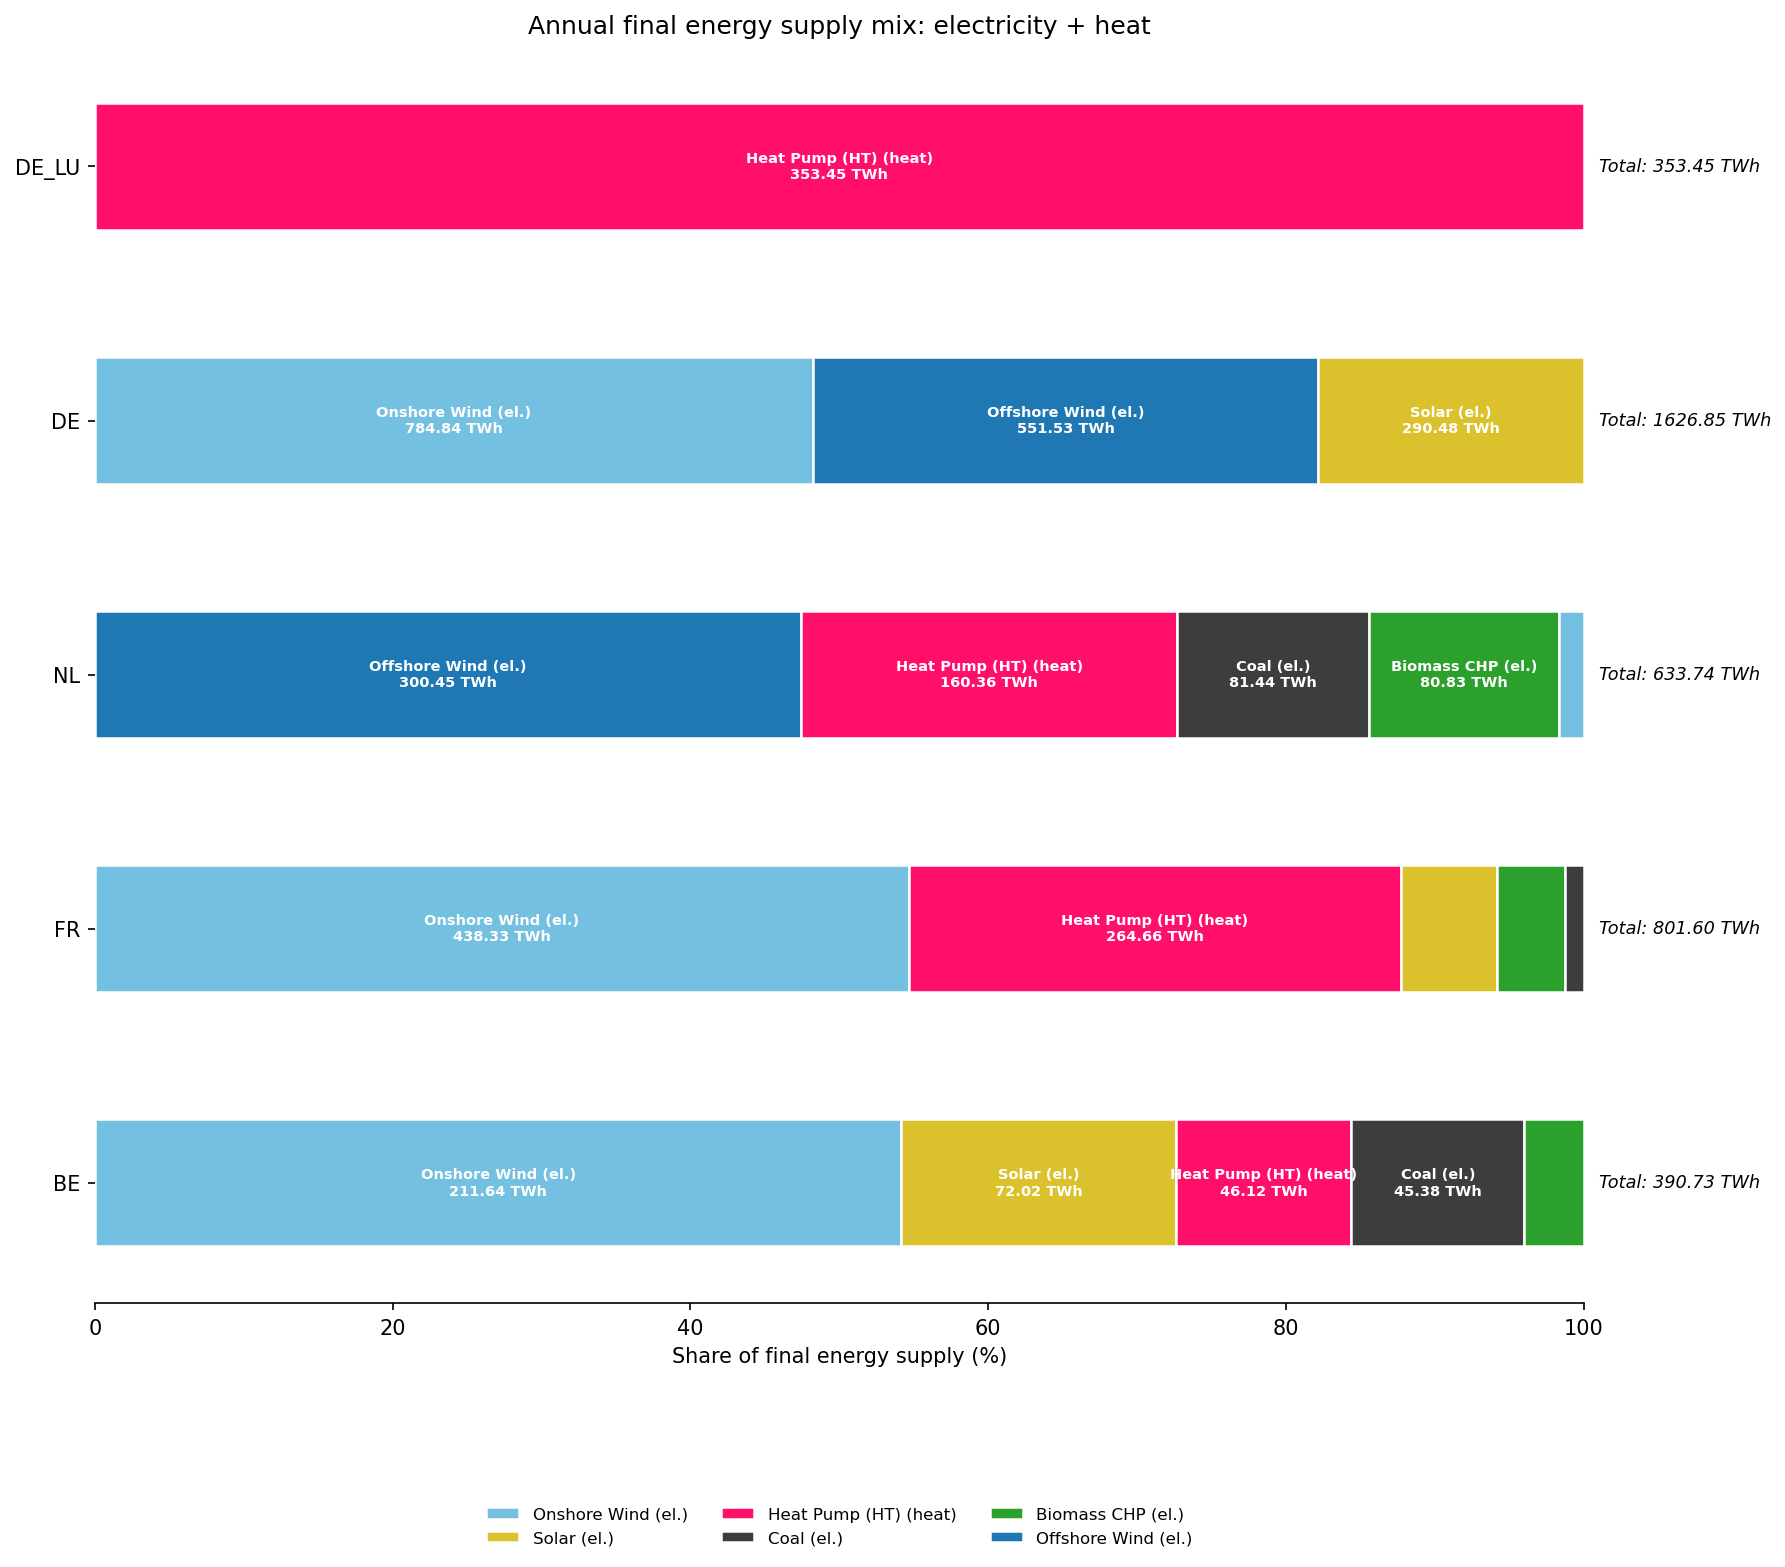
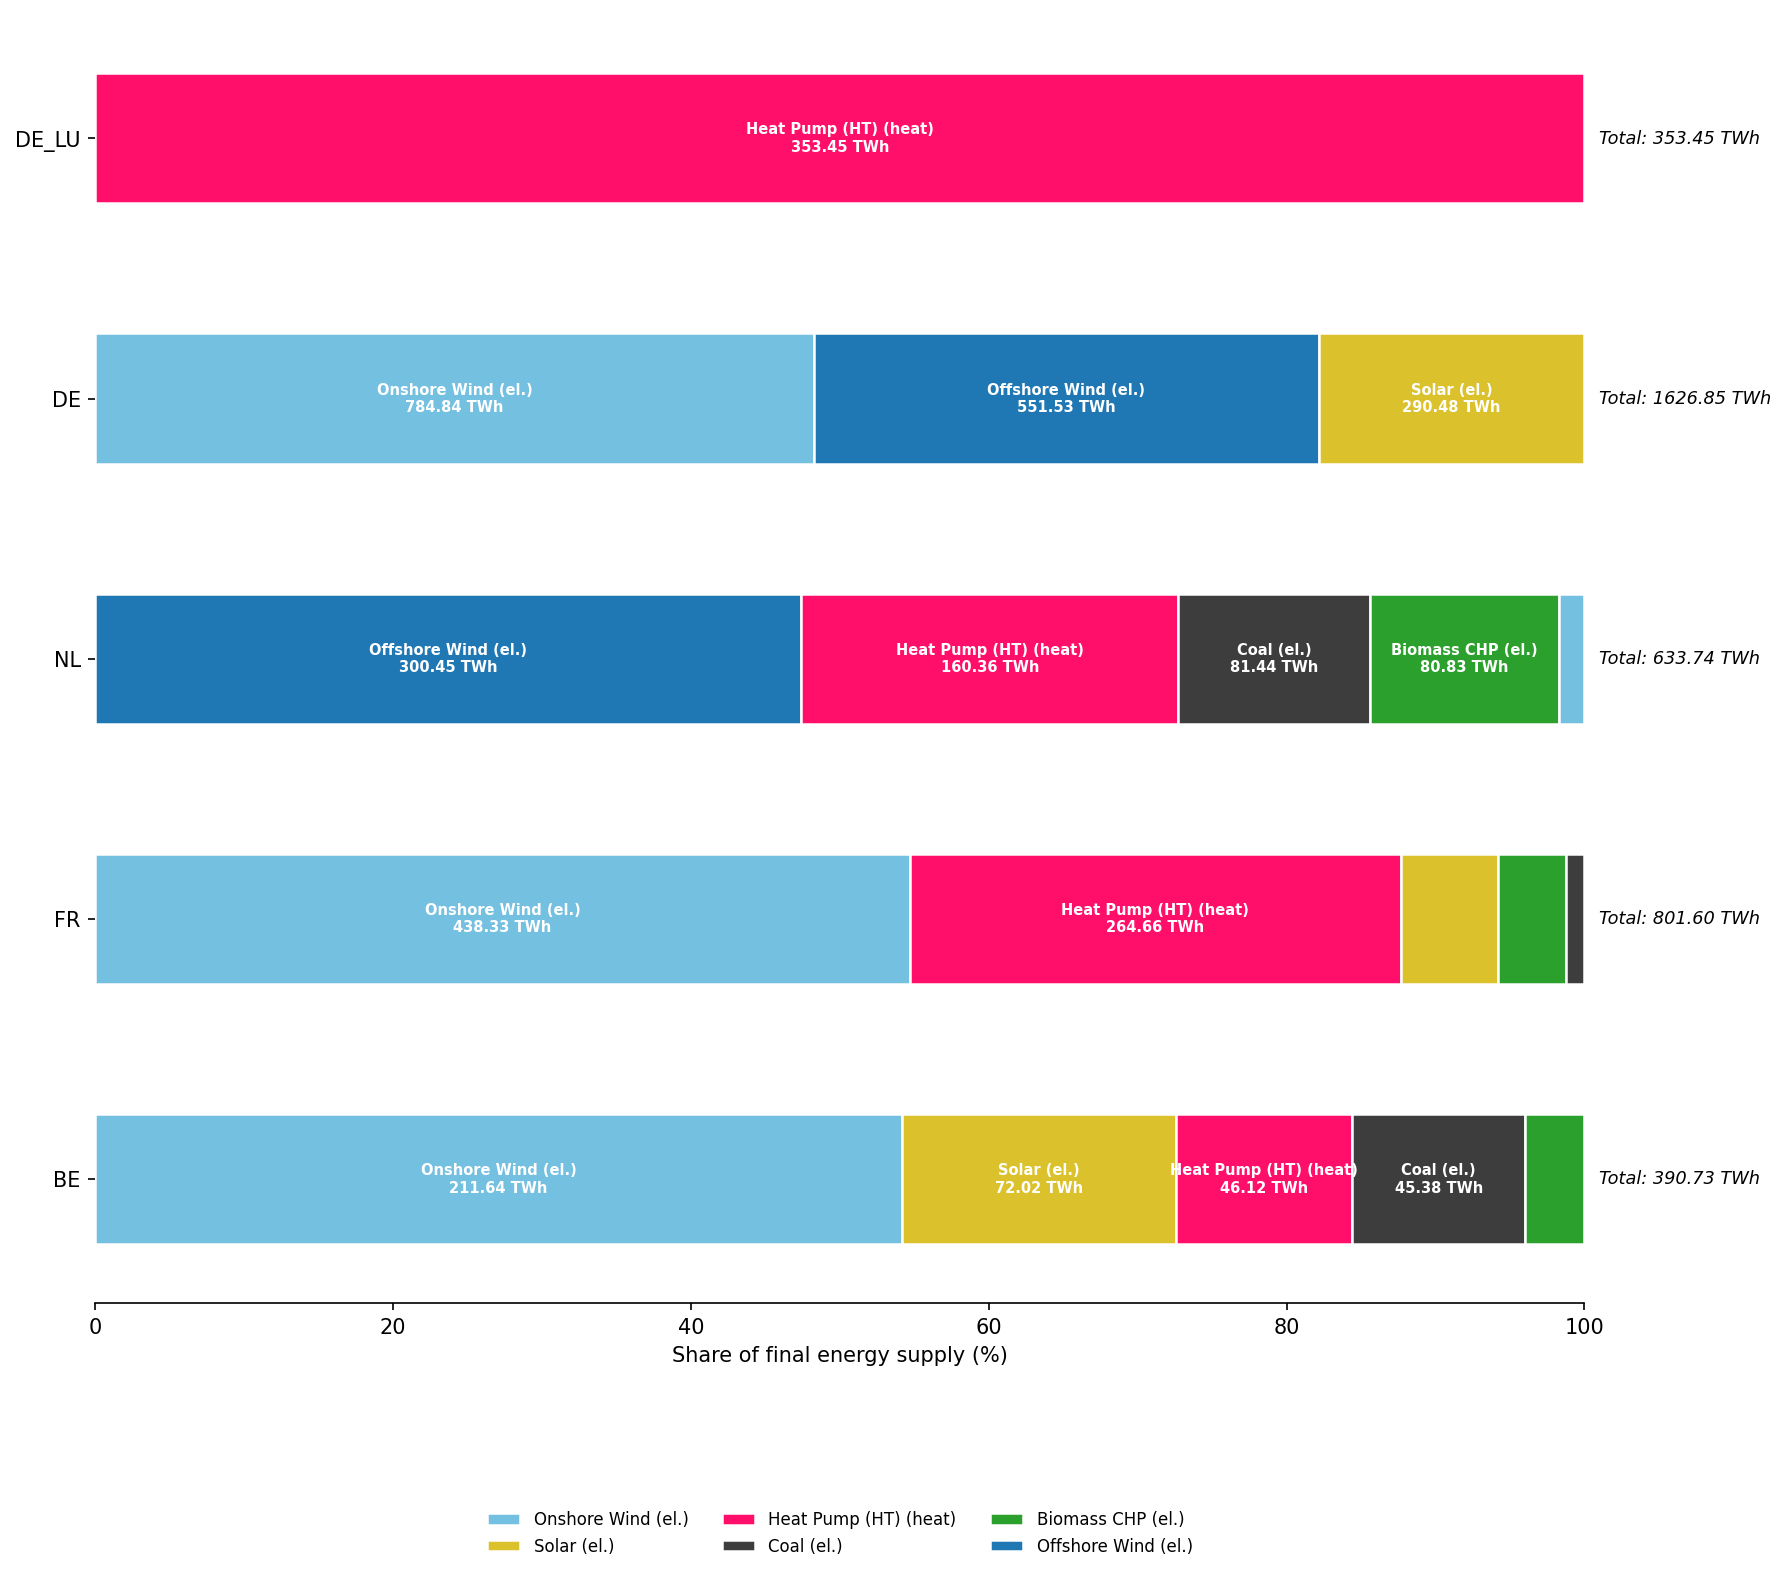
Deleted titles in some plots

diff --git a/src/visualizer.py b/src/visualizer.py
@@ -1385,7 +1385,7 @@ class Visualizer:
         )
 
         ax.set_ylabel("Transported energy [TWh]")
-        ax.set_title("Energy transport comparison")
+        # ax.set_title("Energy transport comparison")
         ax.spines[["top", "right"]].set_visible(False)
         ax.grid(axis="y", linestyle="--", alpha=0.4)
 
@@ -1530,7 +1530,7 @@ class Visualizer:
         ax.set_yticks([i * bar_spacing for i in range(len(countries))])
         ax.set_yticklabels(countries)
         ax.set_xlabel("Share of final energy supply (%)")
-        ax.set_title("Annual final energy supply mix: electricity + heat")
+        # ax.set_title("Annual final energy supply mix: electricity + heat")
         ax.spines[["top", "right", "left"]].set_visible(False)
 
         ax.legend(
@@ -1582,7 +1582,7 @@ class Visualizer:
         ax.set_xticks(x)
         ax.set_xticklabels(countries)
         ax.set_ylabel("Annual demand [TWh]")
-        ax.set_title("Annual final energy demand split")
+        # ax.set_title("Annual final energy demand split")
         ax.spines[["top", "right"]].set_visible(False)
         ax.grid(axis="y", linestyle="--", alpha=0.4)
         ax.legend()

diff --git a/main.py b/main.py
@@ -201,16 +201,16 @@ CONFIG_J["no_gas_supply"] = True # removes CH4 availability; gas-based technolog
 
 # export_results_to_json(network_g.network, "task_g", CONFIG_G["years"][0])
 
-# TASK H
-input_data_h = InputHandler(CONFIG_H)
-network_h = NetworkBuilder(CONFIG_H, input_data_h, CONFIG_H["years"][0])
+# # TASK H
+# input_data_h = InputHandler(CONFIG_H)
+# network_h = NetworkBuilder(CONFIG_H, input_data_h, CONFIG_H["years"][0])
 
-# CO2 shadow price
-co2_shadow_price = abs(network_h.network.model.constraints["CO2Limit"].dual.item())
-print(f"CO2 shadow price for task H: {co2_shadow_price:.2f} €/tCO2")
+# # CO2 shadow price
+# co2_shadow_price = abs(network_h.network.model.constraints["CO2Limit"].dual.item())
+# print(f"CO2 shadow price for task H: {co2_shadow_price:.2f} €/tCO2")
 
-export_results_to_json(network_h.network, "task_h", CONFIG_H["years"][0], 
-                       co2_shadow_price=co2_shadow_price)
+# export_results_to_json(network_h.network, "task_h", CONFIG_H["years"][0], 
+#                        co2_shadow_price=co2_shadow_price)
 
 # TASK i
 input_data_i = InputHandler(CONFIG_I)
